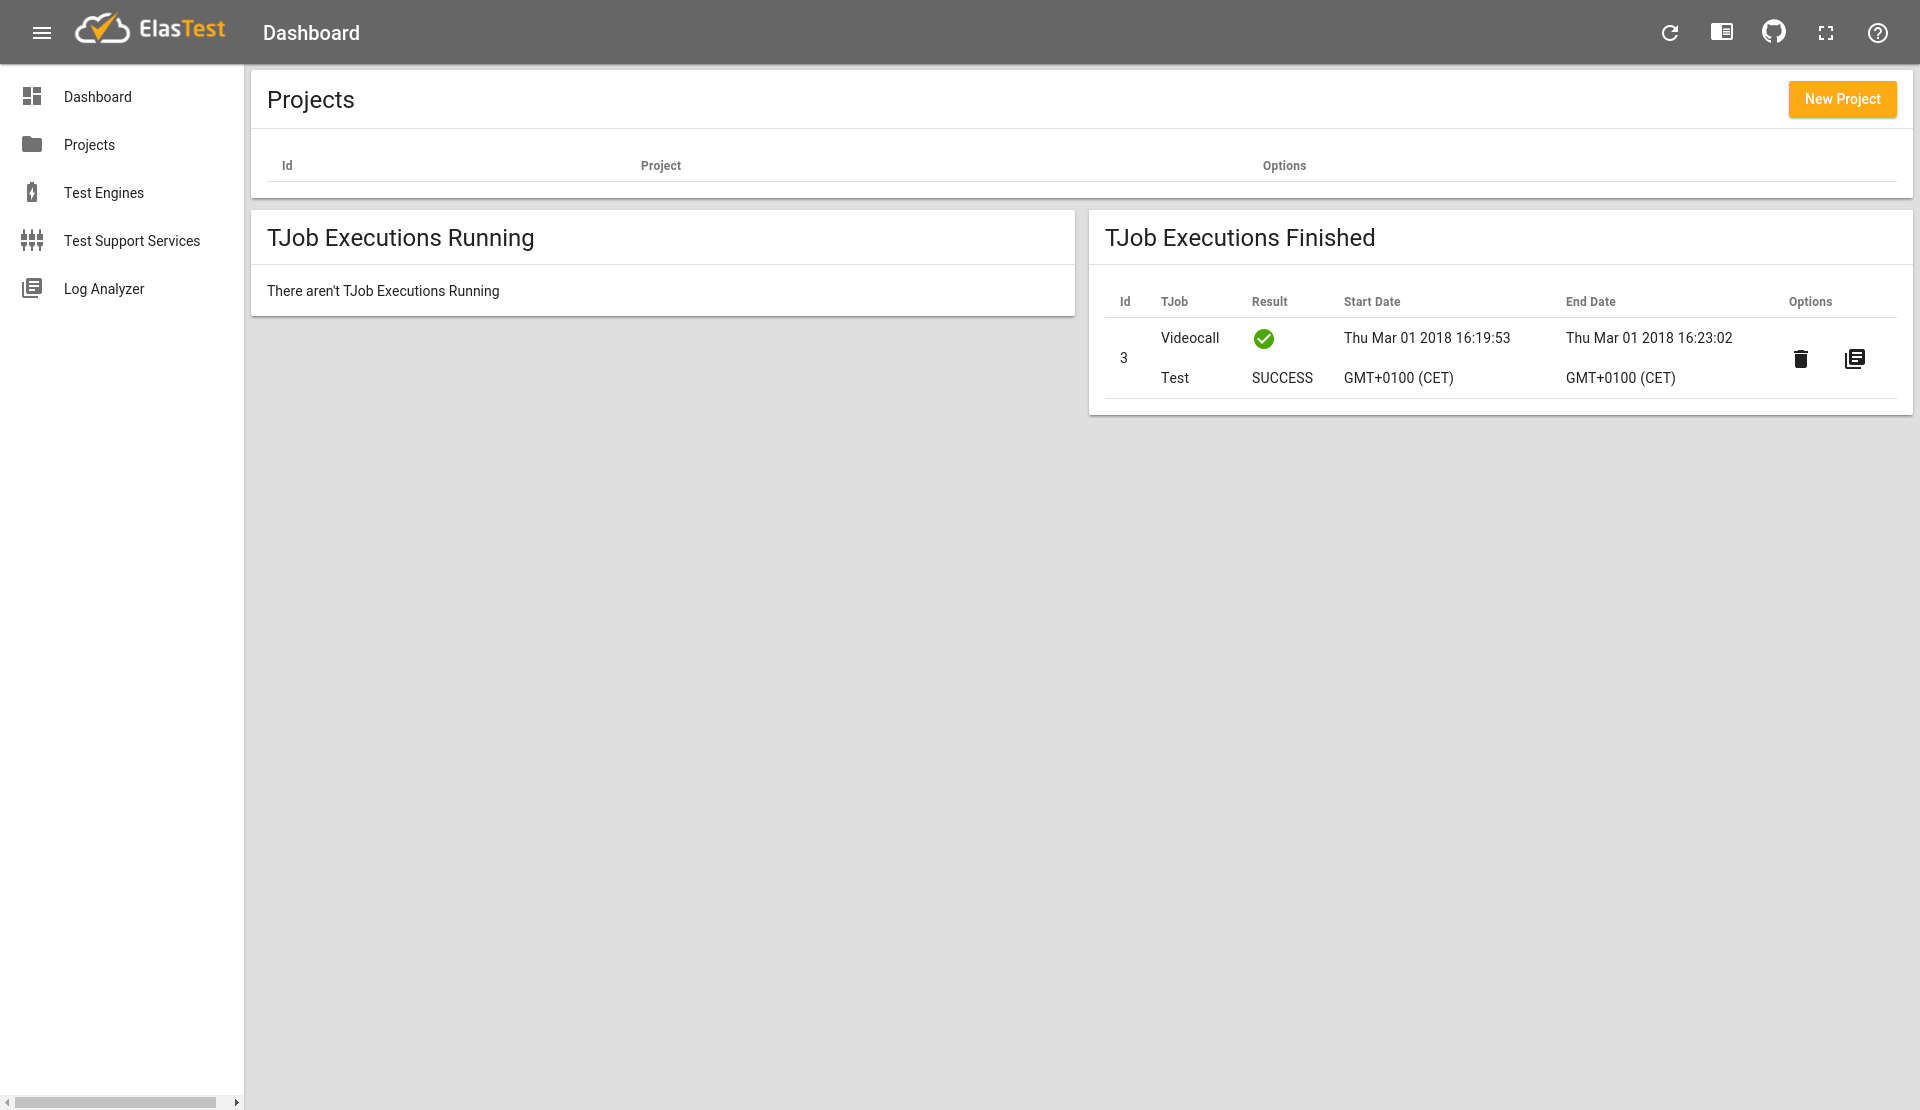
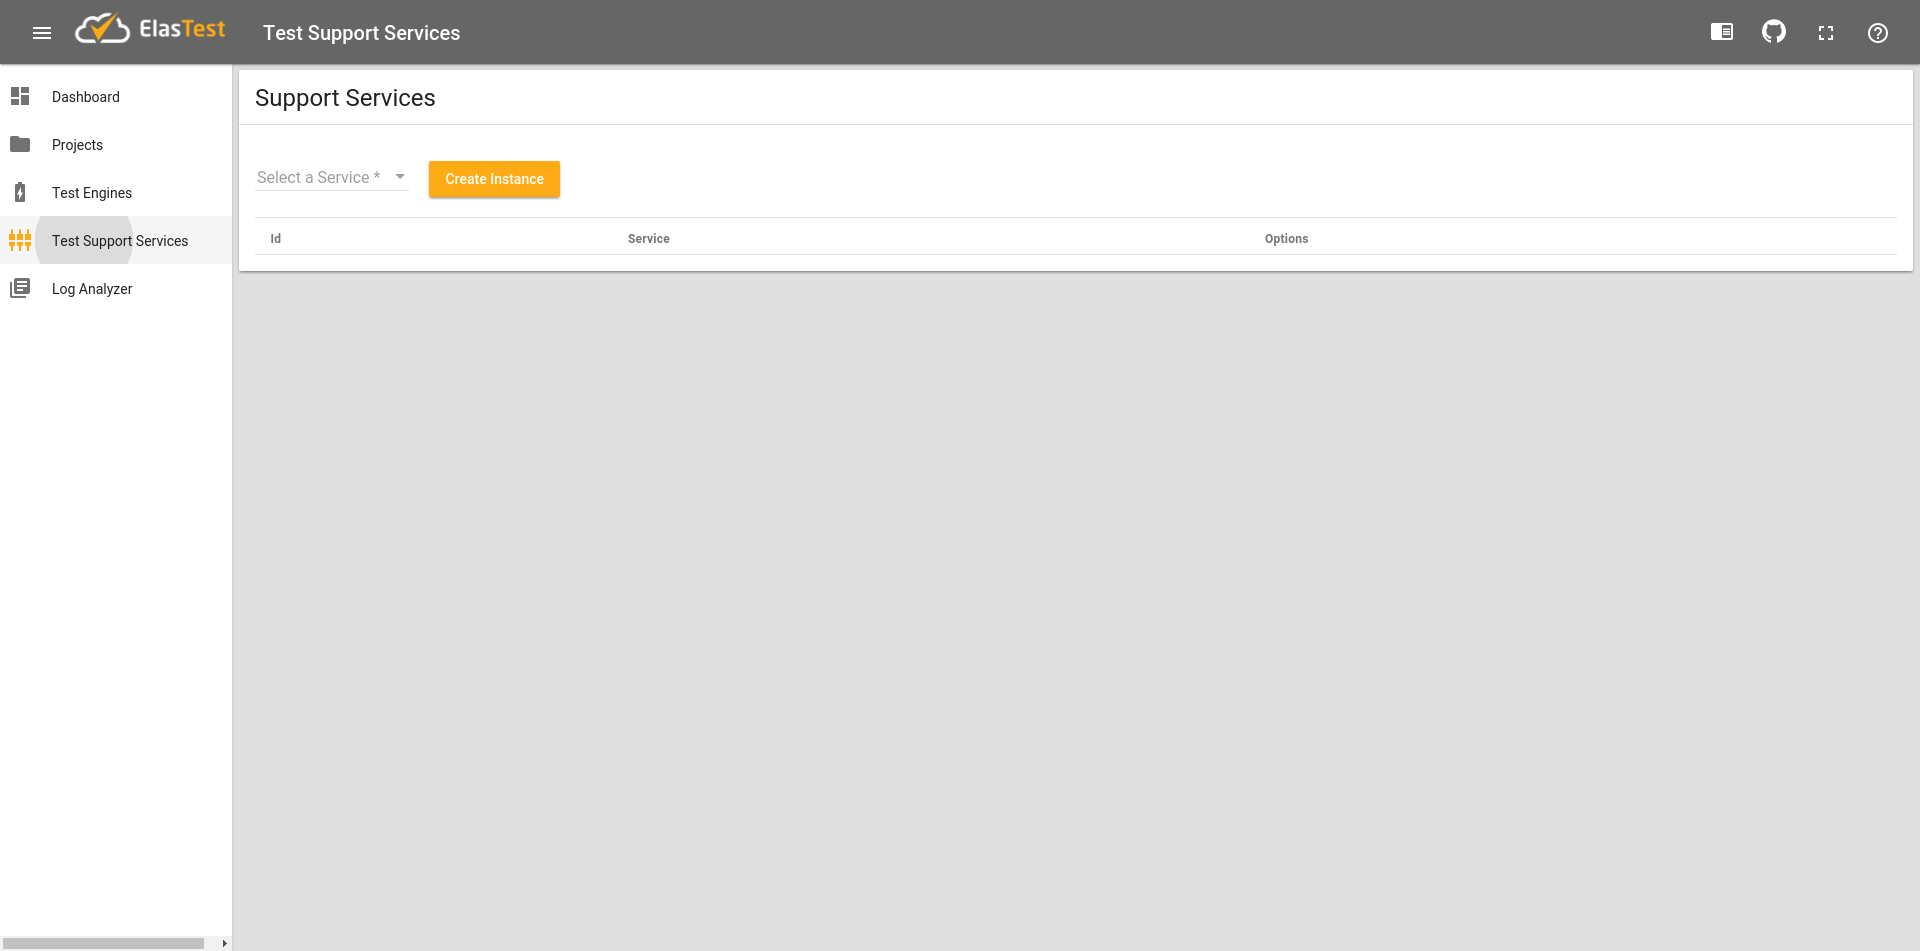
test support service added

Changed region(s): [[0.0, 0.0, 1.0, 1.0], [0.3125, 0.244, 0.3438, 0.2744], [0.0, 0.9758, 0.0312, 1.0]]

diff --git a/tjob-test/tjob_eds.py b/tjob-test/tjob_eds.py
@@ -2,6 +2,9 @@ from selenium import webdriver
 
 #from selenium.common.exceptions import WebDriverException
 from selenium.webdriver.support.ui import WebDriverWait
+from selenium.webdriver.support.ui import Select
+
+import time
 import unittest
 
 
@@ -25,19 +28,22 @@ import unittest
 
 
 class Tjobs(unittest.TestCase):
-
-	def Test_job(self):
+#open nightly and go to test support services
+	def Test_job1(self):
 		#show the location of web driver locally
 		self.driver = webdriver.Chrome('/usr/local/bin/chromedriver')
-		self.driver.implicitly_wait(10)
-		self.driver.set_page_load_timeout(30)
+		#self.driver.implicitly_wait(10)
+		self.driver.set_page_load_timeout(100000)
 		#self.driver.get("http://elastest.io:37000")
 		self.driver.get("http://nightly.elastest.io:37000")
 		self.driver.maximize_window()
 		assert self.driver.title, 'Elastest Home'
 		#		print(driver.title)
+		self.driver.find_element_by_xpath("nav_support_services").click()#send_keys("navigate to create eds instanced")
 		self.driver.save_screenshot('ETM.png')
-	   #self.driver.find_element_by_name()
+		#select EDS from dropdown list and create and instance
+
+	def Test_tjobs2(self):
 
 # create a test support service via etm
 
